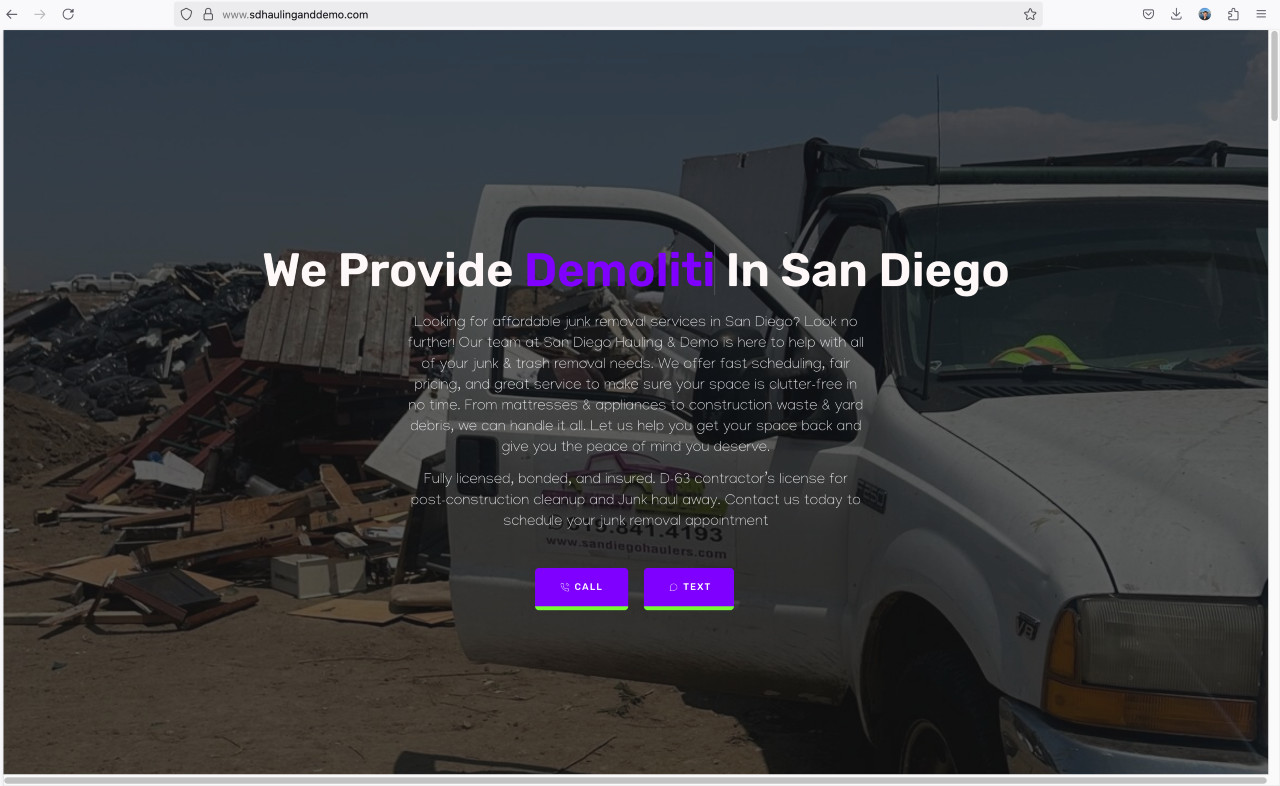
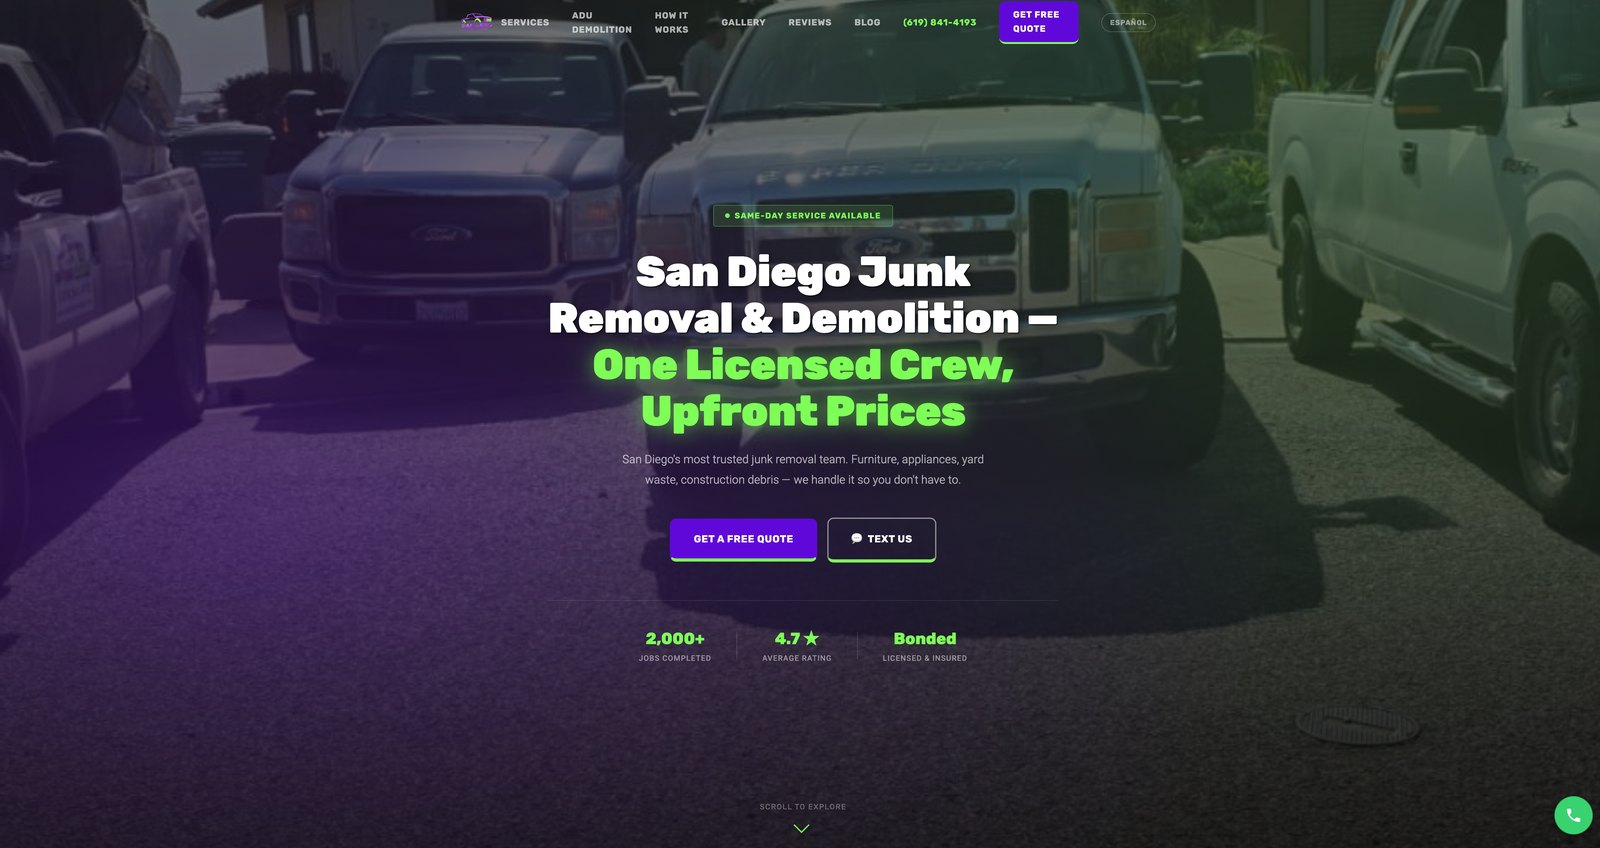
Redesign homepage, refresh JK Lingerie and SD Hauling screenshots, remove Bright & Shine

diff --git a/index.html b/index.html
@@ -280,14 +280,14 @@
       <!-- work ribbon: the projects ARE the hero visual -->
       <div class="ribbon" aria-hidden="true">
         <div class="ribbon-track">
-          <a class="ribbon-item" href="#work"><img src="assets/jk.png" alt="" /><span>JK LINGERIE</span></a>
-          <a class="ribbon-item" href="#work"><img src="assets/SDHD.png" alt="" /><span>SD HAULING &amp; DEMO</span></a>
+          <a class="ribbon-item" href="#work"><img src="assets/jk.jpg" alt="" /><span>JK LINGERIE</span></a>
+          <a class="ribbon-item" href="#work"><img src="assets/sdhd.jpg" alt="" /><span>SD HAULING &amp; DEMO</span></a>
           <a class="ribbon-item" href="#work"><img src="assets/wagyu.png" alt="" /><span>MEAT CONNECTION</span></a>
           <a class="ribbon-item" href="#work"><img src="assets/Omni.png" alt="" /><span>OMNI — LIVE MAP</span></a>
           <a class="ribbon-item" href="#work"><img src="assets/rolando.png" alt="" /><span>ROLANDO VILLAGE BID</span></a>
           <!-- duplicate for seamless loop -->
-          <a class="ribbon-item" href="#work"><img src="assets/jk.png" alt="" /><span>JK LINGERIE</span></a>
-          <a class="ribbon-item" href="#work"><img src="assets/SDHD.png" alt="" /><span>SD HAULING &amp; DEMO</span></a>
+          <a class="ribbon-item" href="#work"><img src="assets/jk.jpg" alt="" /><span>JK LINGERIE</span></a>
+          <a class="ribbon-item" href="#work"><img src="assets/sdhd.jpg" alt="" /><span>SD HAULING &amp; DEMO</span></a>
           <a class="ribbon-item" href="#work"><img src="assets/wagyu.png" alt="" /><span>MEAT CONNECTION</span></a>
           <a class="ribbon-item" href="#work"><img src="assets/Omni.png" alt="" /><span>OMNI — LIVE MAP</span></a>
           <a class="ribbon-item" href="#work"><img src="assets/rolando.png" alt="" /><span>ROLANDO VILLAGE BID</span></a>
@@ -317,7 +317,7 @@
 
       <div class="work-grid">
         <a class="pcard wide reveal" href="https://www.jklingerie.com" target="_blank" rel="noopener">
-          <div class="pcard-media"><img src="assets/jk.png" alt="JK Lingerie e-commerce storefront designed by Kevin Cromley" loading="lazy" /></div>
+          <div class="pcard-media"><img src="assets/jk.jpg" alt="JK Lingerie e-commerce storefront designed by Kevin Cromley" loading="lazy" /></div>
           <div class="pcard-body">
             <span class="pcard-idx">W·1 — E-COMMERCE</span>
             <h3 class="pcard-title">JK Lingerie</h3>
@@ -327,7 +327,7 @@
         </a>
 
         <a class="pcard reveal" href="https://www.sdhaulinganddemo.com" target="_blank" rel="noopener">
-          <div class="pcard-media"><img src="assets/SDHD.png" alt="SD Hauling and Demo bilingual lead-generation website" loading="lazy" /></div>
+          <div class="pcard-media"><img src="assets/sdhd.jpg" alt="SD Hauling and Demo bilingual lead-generation website" loading="lazy" /></div>
           <div class="pcard-body">
             <span class="pcard-idx">W·2 — LEAD GEN</span>
             <h3 class="pcard-title">SD Hauling &amp; Demo</h3>

diff --git a/case-study-sdhd.html b/case-study-sdhd.html
@@ -16,13 +16,13 @@
     <meta property="og:title" content="SD Hauling & Demo — Case Study" />
     <meta property="og:description" content="How a rebuild, local SEO, and a four-year Google Ads campaign turned a family-owned junk removal company into a page-1 search result and a steady lead generator in San Diego." />
     <meta property="og:url" content="https://kcdigital.pro/case-study-sdhd.html" />
-    <meta property="og:image" content="https://kcdigital.pro/assets/SDHD.png" />
+    <meta property="og:image" content="https://kcdigital.pro/assets/sdhd.jpg" />
     <meta property="og:site_name" content="Kevin Cromley Portfolio" />
     <!-- Twitter Card -->
     <meta name="twitter:card" content="summary_large_image" />
     <meta name="twitter:title" content="SD Hauling & Demo — Case Study" />
     <meta name="twitter:description" content="How a rebuild, local SEO, and a four-year Google Ads campaign turned a family-owned junk removal company into a page-1 search result and a steady lead generator in San Diego." />
-    <meta name="twitter:image" content="https://kcdigital.pro/assets/SDHD.png" />
+    <meta name="twitter:image" content="https://kcdigital.pro/assets/sdhd.jpg" />
     <link rel="icon" type="image/png" href="assets/kcdigital-favicon-512x512.png" />
     <!-- Tailwind -->
     <script src="https://cdn.tailwindcss.com"></script>
@@ -134,7 +134,7 @@
 
           <!-- Hero image -->
           <figure class="mb-14 anim-fade-up">
-            <img src="assets/SDHD.png" alt="SD Hauling and Demo website screenshot"
+            <img src="assets/sdhd.jpg" alt="SD Hauling and Demo website screenshot"
                  class="w-full rounded-lg shadow-lg object-cover" style="aspect-ratio: 16/9;" />
             <figcaption class="text-center text-sm text-gray-500 mt-3" data-i18n="casestudy.heroCaption">
               The rebuilt SD Hauling &amp; Demo homepage — mobile-first, fast, and built to convert.

diff --git a/portfolio.html b/portfolio.html
@@ -119,7 +119,7 @@
               <a href="https://sdhaulinganddemo.com" target="_blank" rel="noopener" class="block" aria-label="SD Hauling and Demo">
                 <div class="portfolio-media">
                   <img
-                    src="assets/SDHD.png"
+                    src="assets/sdhd.jpg"
                     alt="SD Hauling and Demo website"
                     class="w-full object-cover"
                     style="aspect-ratio: 16/9;"
@@ -197,7 +197,7 @@
             <a href="https://jklingerie.com" target="_blank" rel="noopener" class="tilt-card portfolio-card block" aria-label="JK Lingerie">
               <div class="portfolio-media">
                 <img
-                  src="assets/jk.png"
+                  src="assets/jk.jpg"
                   alt="JK Lingerie e-commerce website"
                   class="w-full object-cover"
                   style="aspect-ratio: 16/9;"

diff --git a/projects.html b/projects.html
@@ -232,7 +232,7 @@
             <div class="tilt-card project-card">
               <div class="overflow-hidden" style="aspect-ratio: 16/9;">
                 <img
-                  src="assets/jk.png"
+                  src="assets/jk.jpg"
                   alt="Janny's Lenceria React Redux e-commerce app"
                   class="w-full h-full object-cover"
                 />
